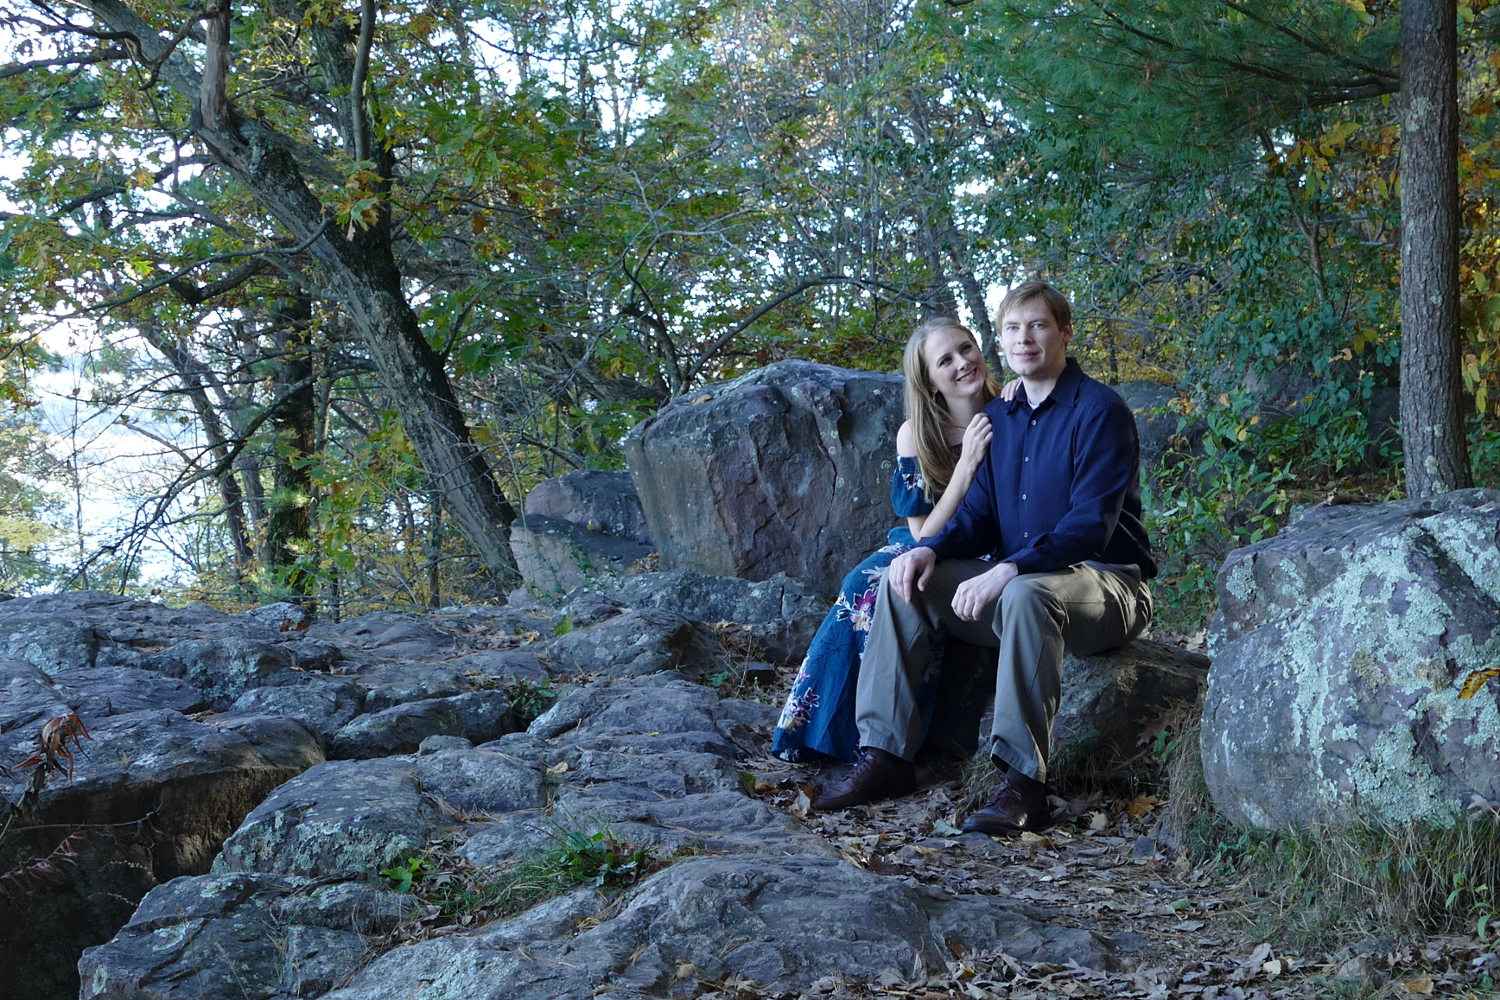
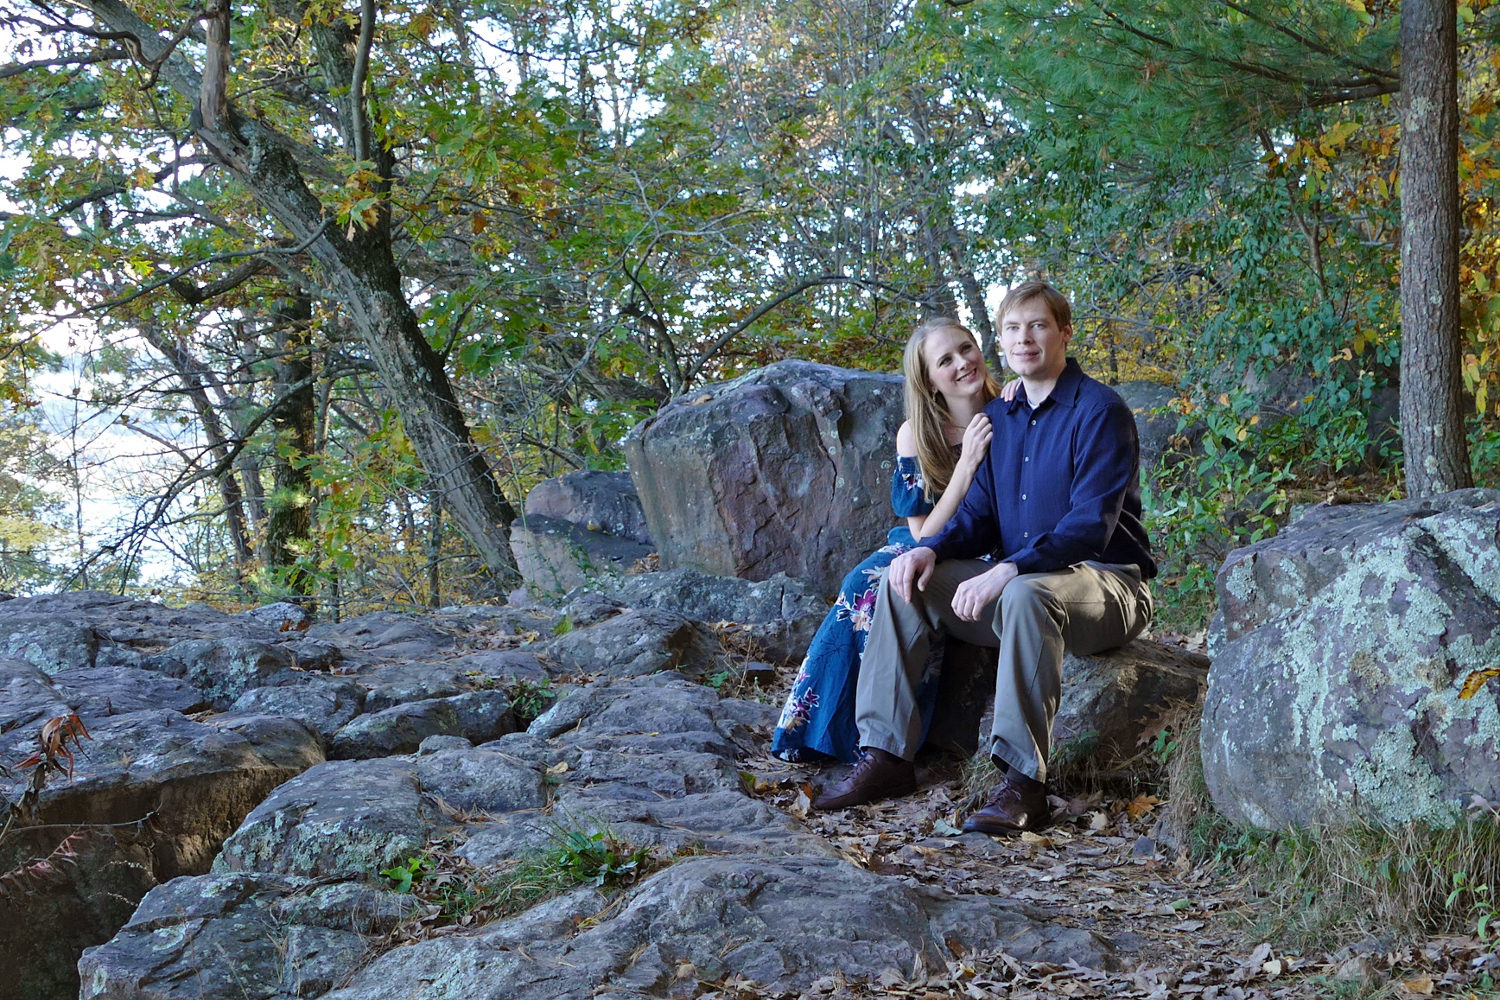
Upgraded to bootstrap 4
upgrade to bootstrap 4 and enhanced image a bit

diff --git a/index.html b/index.html
@@ -2,7 +2,7 @@
 <html>
 <head>
     <title>Amanda & Tom</title>
-    <link rel="stylesheet" type="text/css" href="https://maxcdn.bootstrapcdn.com/bootstrap/3.3.5/css/bootstrap.min.css">
+    <link rel="stylesheet" href="https://stackpath.bootstrapcdn.com/bootstrap/4.1.3/css/bootstrap.min.css" integrity="sha384-MCw98/SFnGE8fJT3GXwEOngsV7Zt27NXFoaoApmYm81iuXoPkFOJwJ8ERdknLPMO" crossorigin="anonymous">
     <link rel="stylesheet" type="text/css" href="app.css">
     <link href="https://fonts.googleapis.com/css?family=Lato|Parisienne" rel="stylesheet">
     <meta name="viewport" content="width=device-width, initial-scale=1">
@@ -10,79 +10,77 @@
 <body>
     <!--Header Section -->
     <section class="intro">
-    <nav class="navbar navbar-default navbar-fixed-top">
-        <div class="container">
-            <div class="navbar-header">
-                <button type="button" class="navbar-toggle collapsed" data-toggle="collapse" data-target="#bs-nav-demo" aria-expanded="false">
-                    <span class="sr-only">Toggle Navigation</span>
-                    <span class="icon-bar"></span>
-                    <span class="icon-bar"></span>
-                    <span class="icon-bar"></span>
-                </button>
-            </div>
-            <div class="collapse navbar-collapse" id="bs-nav-demo">
-                <ul class="nav navbar-nav">
-                    <li class='active'><a href="#">Our Story</a></li>
-                    <li><a href="#">Wedding Details</a></li>
-                    <li><a href="#">Gallery</a></li>
+        <nav class="navbar navbar-expand-lg fixed-top navbar-dark py-0 navbar-expand-md">
+          <button class="navbar-toggler" type="button" data-toggle="collapse" data-target="#navbarNav" aria-controls="navbarNav" aria-expanded="false" aria-label="Toggle navigation">
+            <span class="navbar-toggler-icon"></span>
+          </button>
+          <div class="collapse navbar-collapse" id="navbarNav">
+            <div class="container">
+                <ul class="navbar-nav">
+                  <li class="nav-item active">
+                    <a class="nav-link" href="#">Our Story<span class="sr-only">(current)</span></a>
+                  </li>
+                  <li class="nav-item">
+                    <a class="nav-link" href="#">Wedding Details</a>
+                  </li>
+                  <li class="nav-item">
+                    <a class="nav-link" href="#">Gallery</a>
+                  </li>
                 </ul>
             </div>
-        </div>
-    </nav>
-    <div class="row">
-        <div class="col-lg-12">
-            <div id="content">
-                <h1 class="names">Amanda & Tom</h1>
-                <h3>06.22.2019</h3>
-                <hr class="divider-line">
+          </div>
+        </nav>
+
+        <div class="row">
+            <div class="col-sm">
+                <div id="content">
+                    <h1 class="names">Amanda & Tom</h1>
+                    <h3>06.22.2019</h3>
+                    <hr class="divider-line">
+                </div>
             </div>
-        </div>
-    </div>
-</section>
-    <!--Our Story Section -->
+        </div>  
+    </section>
+    <!--Ceremony Info Section -->
     <section class="ceremony">
         <h2 class="section-title">Ceremony and Reception</h2>
-        <dl class="dl-horizontal">
-            <dt class="list-title">What</dt>
-            <dd class="list-detail">Celebrate our marriage in the park!</dd>
-            <dt class="list-title">When</dt>
-            <dd class="list-detail">Saturday, June 22nd, time tbd</dd>
-            <dt class="list-title">Where</dt>
-            <dd class="list-detail">
-                <address>
-                    Pamperin Park<br>
-                    <a ref="https://goo.gl/maps/T2DLnVNPmtx">2801 County Road RK, Green Bay, WI 54303</a>
-                </address>
-            </dd>
-            <dt class="list-title">Parking</dt>
-            <dd class="list-detail">There is plenty of parking available at the park</dd>
-        </dl>
-</section>
-<section class="our-story">
+        <div class="container pb-5">
+            <div class="row justify-content-center px-5 px-sm-0">
+                <div class="col-sm-2 text-sm-right"><strong>What</strong></div>
+                <div class="col-sm-5 text-sm-left">Celebrate our marriage in the park!</div>
+            </div>
+            <div class="row justify-content-center px-5 px-sm-0">
+                <div class="col-sm-2 text-sm-right"><strong>When</strong></div>
+                <div class="col-sm-5 text-sm-left">Saturday, June 22nd, time tbd</div>
+            </div>
+            <div class="row justify-content-center px-5 px-sm-0">
+                <div class="col-sm-2 text-sm-right"><strong>Where</strong></div>
+                <div class="col-sm-5 text-sm-left">
+                    <address>Pamperin Park<br>
+                        <a href="https://goo.gl/maps/T2DLnVNPmtx" target="_blank">2801 County Road RK, Green Bay, WI 54303</a>
+                    </address>
+                </div>
+            </div>
+            <div class="row justify-content-center px-5 px-sm-0">
+                <div class="col-sm-2 text-sm-right"><strong>Parking</strong></div>
+                <div class="col-sm-5 text-sm-left">There is plenty of parking available at the park</div>
+            </div>
+        </div>
+    </section>
 
-    <h2 class="section-title">Our Story</h2>
-    <!--<p>Tom grew up in Eau Claire, Wisconsin. He attended the University of Wisconsin - Eau Claire and graduated with a degree in Computer Science. Out of school, he began working at Great Lakes as a software developer</p>
+    <!--Our Story Section -->
+    <section class="our-story">
+        <h2 class="section-title">Our Story</h2>
+        <p>Tom and Amanda's stories are very similar--Tom grew up in Eau Claire, Wisconsin and Amanda grew up in the Green Bay area. They both attended college and graduated with degrees in Computer Science. Both were offered jobs at Great Lakes out of college. The only difference was Tom worked out of the Eau Claire office and Amanda worked from the Madison office.</p>
+    </section>
+    <!--Gallery Section -->
+    <section class="gallery">
+        <h2 class="section-title">Gallery</h2>
+        <p>blah blah blahblahblah blah blah blahblah blah blah blah blahblahblah blah blah blahblah blah blah blah blahblahblah blah blah blahblah blah blah blah blahblahblah blah blah blahblah blah blah blah blahblahblah blah blah blahblah blah blah blah blahblahblah blah blah blahblah blah blah blah blahblahblah blah blah blahblah blah blah blah blahblahblah blah blah blahblah blah blah blah blahblahblah blah blah blahblah blah blah blah blahblahblah blah blah blahblah blah</p>
+    </section>
 
-    <p>Amanda grew up in the Green Bay area. She attended the University of Wisconsin - Platteville and graduated with a Degree in Computer Science. After graduating, she began working at Great Lakes as a software Developer.</p> -->
-
-    <p>Tom and Amanda's stories are very similar--Tom grew up in Eau Claire, Wisconsin and Amanda grew up in the Green Bay area. They both attended college and graduated with degrees in Computer Science. Both were offered jobs at Great Lakes out of college. The only difference was Tom worked out of the Eau Claire office and Amanda worked from the Madison office.</p>
-
-    <!--<p>The two were destined to meet, not long into their careers Tom and Amanda were put on the same team. Unfortunately, since they were remote they only saw eachother via a grainy video. Based on this poor quality video, Amanda may have thought that Tom was a middle aged man and was not attracted to him.</p>
-
-    <p>Tom, however, noticed Amanda's work picture that was displayed in the company emails. I am not going to claim that this pictured played a part in his move to Madison, but it certainly didn't hurt. He moved to Madison in August of 2018 and then, Amanda <strong>did</strong> notice him.</p> -->
-
-    <!--<p>Amanda enjoys cooking, singing, playing video games, reading, and nature. </p>-->
-
-    <p></p>
-
-
-
-</section>
-<section class="gallery">
-    <h2 class="section-title">Gallery</h2>
-    <p>blah blah blahblahblah blah blah blahblah blah blah blah blahblahblah blah blah blahblah blah blah blah blahblahblah blah blah blahblah blah blah blah blahblahblah blah blah blahblah blah blah blah blahblahblah blah blah blahblah blah blah blah blahblahblah blah blah blahblah blah blah blah blahblahblah blah blah blahblah blah blah blah blahblahblah blah blah blahblah blah blah blah blahblahblah blah blah blahblah blah blah blah blahblahblah blah blah blahblah blah</p>
-</section>
-<script src="https://code.jquery.com/jquery-2.1.4.js"></script>
-<script src="https://maxcdn.bootstrapcdn.com/bootstrap/3.3.5/js/bootstrap.min.js"></script>
+    <script src="https://code.jquery.com/jquery-3.3.1.slim.min.js" integrity="sha384-q8i/X+965DzO0rT7abK41JStQIAqVgRVzpbzo5smXKp4YfRvH+8abtTE1Pi6jizo" crossorigin="anonymous"></script>
+    <script src="https://cdnjs.cloudflare.com/ajax/libs/popper.js/1.14.3/umd/popper.min.js" integrity="sha384-ZMP7rVo3mIykV+2+9J3UJ46jBk0WLaUAdn689aCwoqbBJiSnjAK/l8WvCWPIPm49" crossorigin="anonymous"></script>
+    <script src="https://stackpath.bootstrapcdn.com/bootstrap/4.1.3/js/bootstrap.min.js" integrity="sha384-ChfqqxuZUCnJSK3+MXmPNIyE6ZbWh2IMqE241rYiqJxyMiZ6OW/JmZQ5stwEULTy" crossorigin="anonymous"></script>
 </body>
 </html>

diff --git a/app.css b/app.css
@@ -16,6 +16,26 @@ body {
     height: 100%;
 }
 
+.navbar {
+    background: rgba(0,0,0,0.7);
+    border: none;
+}
+
+
+
+.navbar-dark .navbar-nav .nav-link, .navbar-dark .navbar-nav .nav-link:focus {
+    color: white;
+}
+
+.navbar-dark .navbar-nav .nav-link:hover, .navbar-dark .navbar-nav .active>.nav-link {
+    background: rgba(255,255,255,0.5);
+    color: black;
+}
+
+.names {
+    font-family: 'Parisienne', cursive;
+}
+
 .intro {
     background: url("P1040880.JPG");
     background-repeat: no-repeat;
@@ -24,54 +44,10 @@ body {
     height: 100%;
 }
 
-@media only screen and (max-width: 768px) {
-    .names {
-        font-size: 3em;
-        font-family: 'Parisienne', cursive;
-    }
-
-    .divider-line {
-        width: 250px;
-    }
-
-    #content {
-        padding-top: 250px;
-        text-align: center;
-        text-shadow: 0px 4px 3px rgba(0,0,0,0.4),
-                 0px 8px 18px rgba(0,0,0,0.1),
-                 0px 18px 23px rgba(0,0,0,0.1);
-    }
-
-    .intro {
-        background: url("P10408802mobile.JPG");
-        background-repeat: no-repeat;
-        background-size: cover;
-        background-position: center;
-    }
-}
-
-.names {
-    font-family: 'Parisienne', cursive;
-}
-
-.navbar {
-    background: rgba(0,0,0,0.7);
-    border: none;
-    font-size: 1.1em;
-}
-
-.navbar-default .navbar-nav > li > a, .navbar-default .navbar-nav > li > a:focus {
-    color: white;
-}
-
-.navbar-default .navbar-nav > li > a:hover, .navbar-default .navbar-nav > .active >a {
-    background: rgba(255,255,255,0.5);
-    color: black;
-}
 
 h1 {
     font-weight: 700;
-    font-size: 5em;
+    font-size: 4.5rem;
 }
 
 .section-title {
